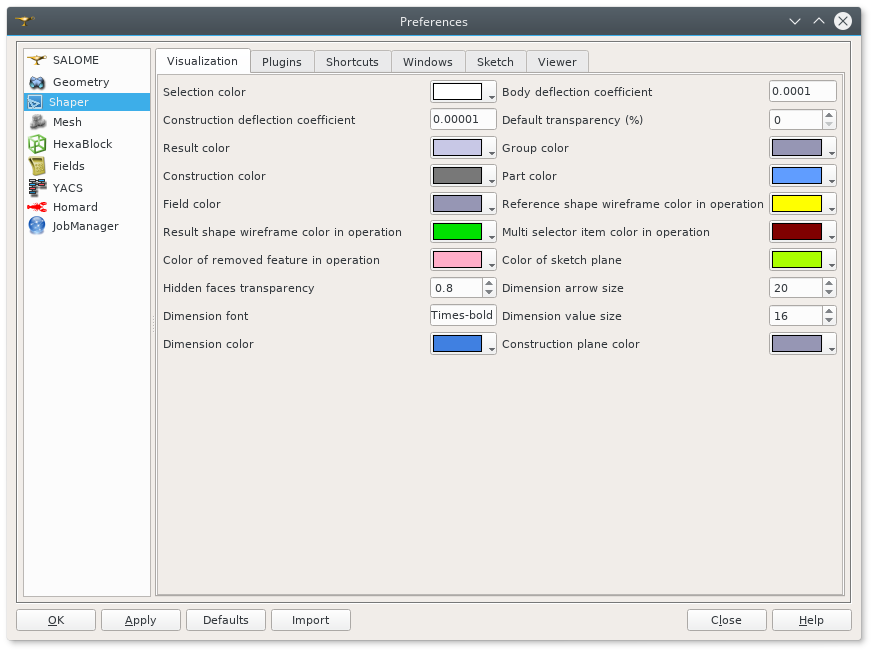
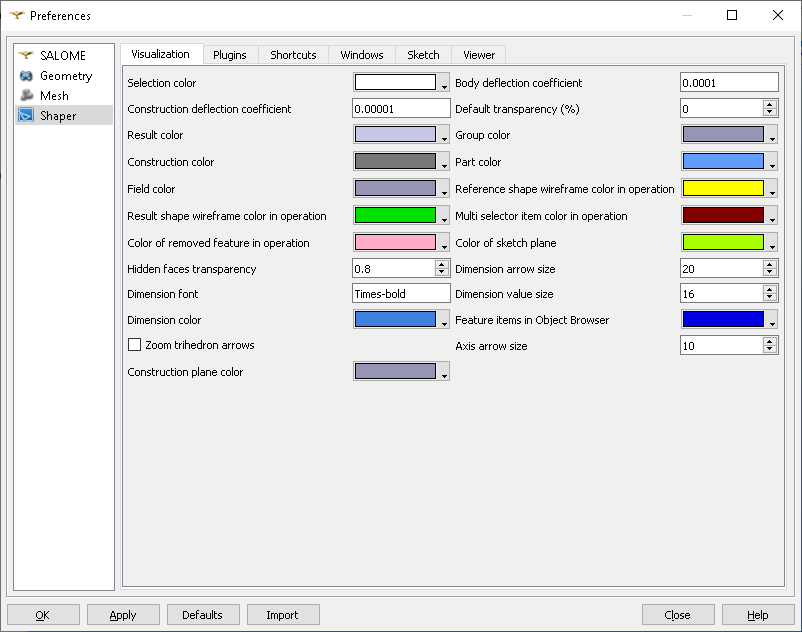
Issue #3233:Resize thrihedron arrows on zooming to avoid "big arrows".

Changed region(s): [[0.0, 0.0, 1.0, 1.0]]

diff --git a/src/SHAPERGUI/SHAPERGUI.cpp b/src/SHAPERGUI/SHAPERGUI.cpp
@@ -136,7 +136,8 @@ private:
 SHAPERGUI::SHAPERGUI()
     : LightApp_Module("SHAPER"),
       mySelector(0), myIsOpened(0), myPopupMgr(0), myIsInspectionVisible(false),
-  myInspectionPanel(0), myIsFacesPanelVisible(false), myIsToolbarsModified(false)
+  myInspectionPanel(0), myIsFacesPanelVisible(false), myIsToolbarsModified(false),
+  myAxisArrowRate(-1)
 {
   myWorkshop = new XGUI_Workshop(this);
   connect(myWorkshop, SIGNAL(commandStatusUpdated()),
@@ -328,11 +329,6 @@ bool SHAPERGUI::activateModule(SUIT_Study* theStudy)
     XGUI_Displayer* aDisp = myWorkshop->displayer();
     QObjectPtrList aObjList = aDisp->displayedObjects();
 
-    //if (myHighlightPointAspect.IsNull()) {
-    //  Handle(AIS_Trihedron) aTrihedron = mySelector->viewer()->getTrihedron();
-    //  myHighlightPointAspect =
-    //    new Graphic3d_AspectMarker3d(aTrihedron->getHighlightPointAspect()->Aspect().operator*());
-    //}
     if (myOldSelectionColor.size() == 0)
       myOldSelectionColor = aDisp->selectionColor();
 
@@ -419,11 +415,14 @@ bool SHAPERGUI::deactivateModule(SUIT_Study* theStudy)
   }
   // Delete selector because it has to be redefined on next activation
   if (mySelector) {
-    //if (!myHighlightPointAspect.IsNull()) {
-    //  Handle(AIS_Trihedron) aTrihedron = mySelector->viewer()->getTrihedron();
-    //  aTrihedron->getHighlightPointAspect()->SetAspect(myHighlightPointAspect);
-    //  myHighlightPointAspect.Nullify();
-    //}
+    // Restore size of arrows of trihedron
+    if (myAxisArrowRate > 0) {
+      Handle(AIS_Trihedron) aTrihedron = mySelector->viewer()->getTrihedron();
+      Handle(Prs3d_DatumAspect) aDatumAspect = aTrihedron->Attributes()->DatumAspect();
+      aDatumAspect->SetAttribute(Prs3d_DP_ShadingConeLengthPercent, myAxisArrowRate);
+      Handle(AIS_InteractiveContext) aContext = mySelector->viewer()->getAISContext();
+      aContext->Redisplay(aTrihedron, false);
+    }
     myWorkshop->displayer()->setSelectionColor(myOldSelectionColor);
     myProxyViewer->setSelector(0);
 
@@ -571,11 +570,11 @@ SHAPERGUI_OCCSelector* SHAPERGUI::createSelector(SUIT_ViewManager* theMgr)
   if (theMgr->getType() == OCCViewer_Viewer::Type()) {
     OCCViewer_Viewer* aViewer = static_cast<OCCViewer_Viewer*>(theMgr->getViewModel());
 
-    //if (myHighlightPointAspect.IsNull()) {
-    //  Handle(AIS_Trihedron) aTrihedron = aViewer->getTrihedron();
-    //  myHighlightPointAspect =
-    //    new Graphic3d_AspectMarker3d(aTrihedron->getHighlightPointAspect()->Aspect().operator*());
-    //}
+    // Remember current length of arrow of axis
+    Handle(AIS_Trihedron) aTrihedron = aViewer->getTrihedron();
+    Handle(Prs3d_DatumAspect) aDatumAspect = aTrihedron->Attributes()->DatumAspect();
+    myAxisArrowRate = aDatumAspect->Attribute(Prs3d_DP_ShadingConeLengthPercent);
+
     SHAPERGUI_OCCSelector* aSelector = new SHAPERGUI_OCCSelector(aViewer,
                                                                  getApp()->selectionMgr());
 #ifdef SALOME_PATCH_FOR_CTRL_WHEEL
@@ -595,6 +594,10 @@ SHAPERGUI_OCCSelector* SHAPERGUI::createSelector(SUIT_ViewManager* theMgr)
 
     std::vector<int> aColor = Config_PropManager::color("Visualization", "selection_color");
     myWorkshop->displayer()->setSelectionColor(aColor);
+
+    // Cause scaling of arrows of axis and dimensions
+    myWorkshop->module()->onViewTransformed();
+
     return aSelector;
   }
   return 0;

diff --git a/src/PartSet/PartSet_Module.cpp b/src/PartSet/PartSet_Module.cpp
@@ -236,6 +236,7 @@ PartSet_Module::PartSet_Module(ModuleBase_IWorkshop* theWshop)
                                    "Hidden faces transparency",
                                    Config_Prop::DblSpin,
                                    "0.8");
+
   std::ostringstream aStream;
   aStream << SketcherPrs_Tools::getDefaultArrowSize();
   Config_PropManager::registerProp("Visualization", "dimension_arrow_size",
@@ -257,6 +258,12 @@ PartSet_Module::PartSet_Module(ModuleBase_IWorkshop* theWshop)
   Config_PropManager::registerProp("Visualization", "feature_objectbrowser_color",
     "Feature items in Object Browser",
     Config_Prop::Color, FEATURE_ITEM_COLOR);
+
+  Config_PropManager::registerProp("Visualization", "zoom_trihedron_arrows",
+    "Zoom trihedron arrows", Config_Prop::Boolean, "false");
+
+  Config_PropManager::registerProp("Visualization", "axis_arrow_size",
+    "Axis arrow size", Config_Prop::IntSpin, "10");
 
   Config_PropManager::registerProp("Shortcuts", "add_parameter_shortcut",
     "Add parameter in parameters manager dialog",
@@ -1156,13 +1163,13 @@ void PartSet_Module::onViewTransformed(int theTrsfType)
     return;
 
   bool isModified = false;
+  double aLen = aView->Convert(SketcherPrs_Tools::getConfigArrowSize());
   ModuleBase_Operation* aCurrentOperation = myWorkshop->currentOperation();
   if (aCurrentOperation &&
     (PartSet_SketcherMgr::isSketchOperation(aCurrentOperation) ||
      sketchMgr()->isNestedSketchOperation(aCurrentOperation) ||
      (aCurrentOperation->id() == "Measurement")))
   {
-    double aLen = aView->Convert(SketcherPrs_Tools::getConfigArrowSize());
 
     double aPrevLen = SketcherPrs_Tools::getArrowSize();
     SketcherPrs_Tools::setArrowSize(aLen);
@@ -1183,10 +1190,24 @@ void PartSet_Module::onViewTransformed(int theTrsfType)
         isModified = true;
       }
     }
-    if (isModified)
-      aDisplayer->updateViewer();
   }
 
+  // Manage trihedron arrows
+  if (Config_PropManager::boolean("Visualization", "zoom_trihedron_arrows")) {
+    Handle(AIS_Trihedron) aTrihedron = aViewer->trihedron();
+    if (!aTrihedron.IsNull()) {
+      double aAxLen =
+        aView->Convert(Config_PropManager::integer("Visualization", "axis_arrow_size"));
+      Handle(Prs3d_DatumAspect) aDatumAspect = aTrihedron->Attributes()->DatumAspect();
+      double aAxisLen = aDatumAspect->AxisLength(Prs3d_DP_XAxis);
+      aDatumAspect->SetAttribute(Prs3d_DP_ShadingConeLengthPercent, aAxLen / aAxisLen);
+      aTrihedron->Attributes()->SetDatumAspect(aDatumAspect);
+      aContext->Redisplay(aTrihedron, false);
+      isModified = true;
+    }
+  }
+  if (isModified)
+    aDisplayer->updateViewer();
 }
 
 //******************************************************

diff --git a/src/SHAPERGUI/SHAPERGUI_SalomeViewer.cpp b/src/SHAPERGUI/SHAPERGUI_SalomeViewer.cpp
@@ -32,6 +32,7 @@
 
 #include <QMouseEvent>
 #include <QContextMenuEvent>
+#include <QTimer>
 
 #if OCC_VERSION_HEX < 0x070400
   #define SALOME_PATCH_FOR_CTRL_WHEEL
@@ -279,10 +280,18 @@ void SHAPERGUI_SalomeViewer::onViewCreated(SUIT_ViewWindow* theView)
   myWindowScale.insert(aView->getViewPort()->getView(),
                        aView->getViewPort()->getView()->Camera()->Scale());
 
+  QTimer::singleShot(10, this, SLOT(onAfterViewCreated()));
+
   emit viewCreated(myView);
-
-
 }
+
+//**********************************************
+void SHAPERGUI_SalomeViewer::onAfterViewCreated()
+{
+  // Update trihedron and dimension arrows
+  emit onViewTransformed(OCCViewer_ViewWindow::ZOOMVIEW);
+}
+
 
 //**********************************************
 void SHAPERGUI_SalomeViewer::onActivated(SUIT_ViewManager* theMgr)

diff --git a/src/ModuleBase/ModuleBase_IModule.h b/src/ModuleBase/ModuleBase_IModule.h
@@ -421,6 +421,10 @@ public slots:
   /// \param theAIS a presentation object
   virtual void onBeforeObjectErase(ObjectPtr theObject, AISObjectPtr theAIS) {}
 
+  /// Called on transformation in current viewer
+  /// \param theTrsfType type of tranformation
+  virtual void onViewTransformed(int theTrsfType = 2) {}
+
 protected slots:
   /// Called on selection changed event
   virtual void onSelectionChanged() {}

diff --git a/src/SHAPERGUI/SHAPERGUI_SalomeViewer.h b/src/SHAPERGUI/SHAPERGUI_SalomeViewer.h
@@ -235,6 +235,9 @@ Q_OBJECT
   /// It is necessary to activate the viewer trihedron in the current selection mode
   void onViewPortMapped();
 
+  /// Signal called in order to apdate viewer transformed objects
+  void onAfterViewCreated();
+
  private:
   SHAPERGUI_OCCSelector* mySelector;
   SHAPERGUI_SalomeView* myView;

diff --git a/src/PartSet/PartSet_Module.h b/src/PartSet/PartSet_Module.h
@@ -412,7 +412,7 @@ public slots:
 
   /// Called on transformation in current viewer
   /// \param theTrsfType type of tranformation
-  void onViewTransformed(int theTrsfType = 2);
+  virtual void onViewTransformed(int theTrsfType = 2);
 
 protected slots:
   /// Called when previous operation is finished

diff --git a/src/SHAPERGUI/SHAPERGUI.h b/src/SHAPERGUI/SHAPERGUI.h
@@ -284,6 +284,8 @@ private slots:
 
   std::vector<int> myOldSelectionColor;
   Handle(Graphic3d_AspectMarker3d) myHighlightPointAspect;
+
+  double myAxisArrowRate;
 };
 
 #endif

diff --git a/doc/gui/Introduction.rst b/doc/gui/Introduction.rst
@@ -540,6 +540,8 @@ This tab defines presentation of objects displayed in OCC 3D viewer.
 - **Sketch auxiliary entity color** selects default color for sketch auxiliary objects;
 - **Sketch overconstraint color** selects default color for a sketch with redundant constraints;
 - **Sketch fully constraint color** selects default color for a sketch with zero degrees of freedom.
+- **Zoom trihedron arrows** if this control is checked then arrows of a view trihedron will be scaled according to current view scale
+- **Axis arrow size** relative size of trihedron arrows. It has effect only in case if **Zoom trihedron arrows** is On.
   
 To redefine any color click on the corresponding line to access **Select color** dialog box
 
